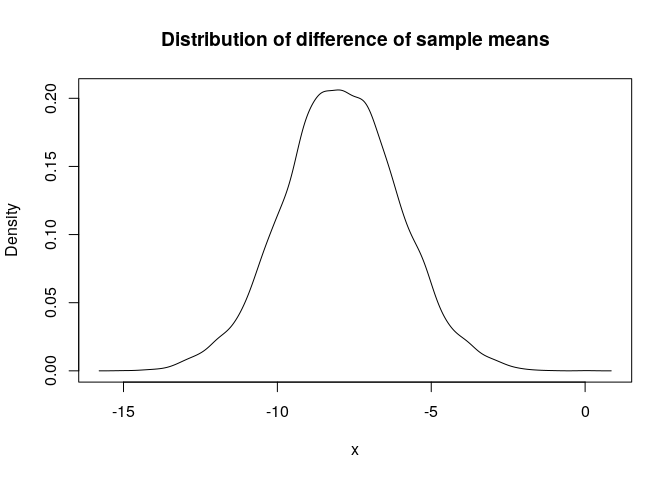
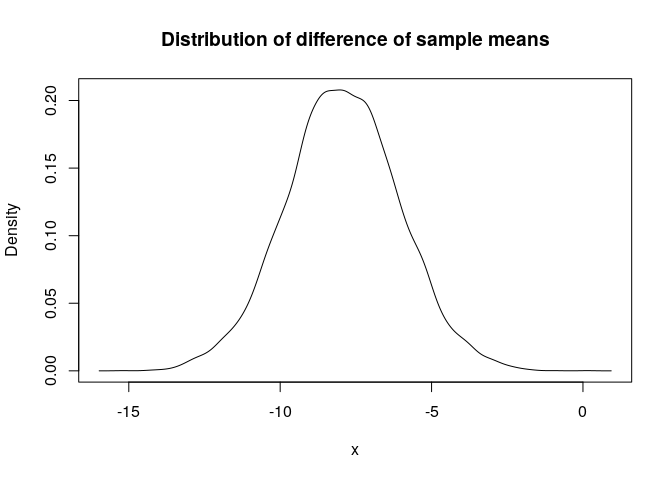
Export and document `new_discrete()` and `new_continuous()`.

diff --git a/README.md b/README.md
@@ -79,6 +79,17 @@ devtools::install_github("echasnovski/pdqr")
 
 ## <a id="pdqr-quick"></a> Quick examples
 
+Generate sample from distribution defined by other sample:
+
+``` r
+# Treat input sample as from continuous distribution
+r_mpg_con <- new_r(mtcars$mpg, type = "continuous")
+
+r_mpg_con(n = 10)
+#>  [1] 17.3792362 10.4822955 22.8221407 21.8118788 15.5166760 16.3005293
+#>  [7] 20.5809388 16.8043292 21.1901692 19.9680967
+```
+
 Compute winsorized mean:
 
 ``` r
@@ -86,8 +97,8 @@ Compute winsorized mean:
 library(magrittr)
 # Take a sample
 mtcars$mpg %>% 
-  # Create pdqr-function of any class treating input as discrete
-  new_d(type = "discrete") %>% 
+  # Create pdqr-function treating input as discrete
+  new_discrete() %>% 
   # Winsorize tails
   form_tails(level = 0.1, method = "winsor", direction = "both") %>% 
   # Compute mean of distribution
@@ -100,26 +111,26 @@ Compute and visualize distribution of difference of sample means:
 ``` r
 # Compute distribution of first sample mean treating input as continuous
 mpg_vs0 <- mtcars$mpg[mtcars$vs == 0]
-d_vs0 <- new_d(mpg_vs0, "continuous")
+d_vs0 <- new_continuous(mpg_vs0)
 (d_vs0_mean <- form_estimate(
   d_vs0, estimate = mean, sample_size = length(mpg_vs0)
 ))
 #> Density function of continuous type
-#> Support: ~[13.00299, 20.78743] (511 intervals)
+#> Support: ~[12.14822, 20.63362] (511 intervals)
 
 # Compute distribution of second sample mean treating input as continuous
 mpg_vs1 <- mtcars$mpg[mtcars$vs == 1]
-d_vs1 <- new_d(mpg_vs1, "continuous")
+d_vs1 <- new_continuous(mpg_vs1)
 (d_vs1_mean <- form_estimate(
   d_vs1, estimate = mean, sample_size = length(mpg_vs1)
 ))
 #> Density function of continuous type
-#> Support: ~[18.2619, 30.79593] (511 intervals)
+#> Support: ~[18.42035, 31.00767] (511 intervals)
 
 # Compute distribution of difference of sample means using random simulation
 (mpg_diffmean <- d_vs0_mean - d_vs1_mean)
 #> Density function of continuous type
-#> Support: ~[-15.78983, 0.84769] (511 intervals)
+#> Support: ~[-15.97734, 0.93274] (511 intervals)
 # Visualize with base `plot()`
 plot(mpg_diffmean, main = "Distribution of difference of sample means")
 ```
@@ -155,7 +166,7 @@ region_draw(norm_hdr)
 
 All `new_*()` functions create a pdqr-function of certain class (“p”,
 “d”, “q”, or “r”) and type (“discrete” or “continuous”) based on
-sample or data frame of appropriate structure:
+sample or data frame (with appropriate structure):
 
   - **Sample input** is converted into data frame of appropriate
     structure that defines distribution (see next list item). It is done
@@ -192,6 +203,14 @@ distribution:
     Inverse of distribution’s p-function.
   - **R-function** is a random generation function. Created with
     `new_r()`. Generates a random sample from distribution.
+
+For situations when only type of pdqr-function matters and not its class
+(like for transforming and summarizing distributions), there are thin
+wrappers for `new_d()`:
+
+  - `new_discrete(x)` is equivalent to `new_d(x, type = "discrete")`.
+  - `new_continuous(x)` is equivalent to `new_d(x, type =
+    "continuous")`.
 
 For more details see vignette about creation of pdqr-functions.
 
@@ -240,16 +259,24 @@ head(meta_x_tbl(p_mpg_con), n = 3)
 #> 2 3.04503133 0.000125168087 8.98202438e-06
 #> 3 3.12009996 0.000136934574 1.88198694e-05
 
+# Use these wrappers when only type of distribution matters
+new_discrete(mtcars$mpg)
+#> Probability mass function of discrete type
+#> Support: [10.4, 33.9] (25 elements)
+new_continuous(mtcars$mpg)
+#> Density function of continuous type
+#> Support: ~[2.96996, 41.33004] (511 intervals)
+
 # Output of `new_*()` is actually a function
 p_mpg_dis(15:20)
 #> [1] 0.18750 0.31250 0.34375 0.40625 0.46875 0.56250
 
   # Random generation. "discrete" type generates only values from input
 r_mpg_dis(10)
-#>  [1] 21.0 10.4 27.3 15.2 21.0 19.7 21.0 16.4 21.4 14.3
+#>  [1] 10.4 33.9 26.0 19.2 24.4 18.7 17.8 18.7 15.5 21.4
 r_mpg_con(10)
-#>  [1]  9.04778435 34.75375947 25.85388829 19.14534473 24.97377936
-#>  [6] 18.78212805 17.81914730 18.72417709 15.81156928 21.58663248
+#>  [1] 35.7089680 33.3634914 31.1541225 15.6482281 20.8554689 13.7275908
+#>  [7] 11.3686051 16.7155604 20.6710197 20.5132727
 
 # Special case of dirac-like pdqr-function, which numerically approximates
 # single number with distribution with narrow support
@@ -271,17 +298,23 @@ dis_tbl <- data.frame(x = 1:4, prob = 4:1 / 10)
 new_d(dis_tbl, type = "discrete")
 #> Probability mass function of discrete type
 #> Support: [1, 4] (4 elements)
+new_discrete(dis_tbl)
+#> Probability mass function of discrete type
+#> Support: [1, 4] (4 elements)
 new_r(dis_tbl, type = "discrete")(10)
-#>  [1] 4 4 4 1 2 1 1 1 2 2
+#>  [1] 4 1 3 1 2 4 3 2 4 1
 
 # Type "continuous"
 con_tbl <- data.frame(x = 1:4, y = c(0, 1, 1, 1))
 new_d(con_tbl, type = "continuous")
 #> Density function of continuous type
 #> Support: [1, 4] (3 intervals)
+new_continuous(con_tbl)
+#> Density function of continuous type
+#> Support: [1, 4] (3 intervals)
 new_r(con_tbl, type = "continuous")(10)
-#>  [1] 3.78486663 2.12600804 3.74231079 2.48302382 2.89583449 3.76072579
-#>  [7] 3.50610764 2.63287220 3.79795585 1.67113707
+#>  [1] 2.21323986 1.58190910 2.85635049 2.32440194 2.44538842 2.89743821
+#>  [7] 3.29852362 2.43084969 2.81580878 2.79585280
 ```
 
 ## <a id="pdqr-convert"></a> Convert with `as_*()`
@@ -408,7 +441,7 @@ examples:
 ``` r
 # Transform support of pdqr-function with `form_resupport()`. Usually useful
 # for dealing with bounded values.
-d_smpl <- new_d(runif(1000), type = "continuous")
+d_smpl <- new_continuous(runif(1000))
 d_smpl_bounded <- form_resupport(d_smpl, support = c(0, 1), method = "reflect")
 
 plot(d_smpl, main = "Estimating density of bounded quantity", col = "black")
